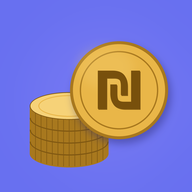
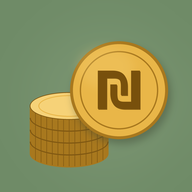
פלטה בהירה: לבן, ירוק עתיק וחום בהיר

diff --git a/src/styles.css b/src/styles.css
@@ -1,10 +1,10 @@
 :root {
-  /* מודרני ועדין: אפור-לבן, פריווינקל, מנטה, אלמוג, ענבר */
-  --bg: #f5f6fa; --surface: #ffffff; --track: #eceef5; --ink: #1e2233; --ink-2: #5b6178; --ink-3: #9aa0b4;
-  --line: #eceef4; --accent: #6870f0; --accent-ink: #fff; --accent-soft: rgba(104, 112, 240, .10);
-  --up: #1f9e74; --down: #e0607a; --warn: #e5a33b;
-  --t-stocks: #6870f0; --t-sp: #f2b35e; --t-solid: #a9b2c7;
-  --shadow: 0 1px 2px rgba(30, 34, 51, .04), 0 8px 24px rgba(30, 34, 51, .05);
+  /* בהיר: לבן, ירוק עתיק, חום בהיר */
+  --bg: #fbfaf7; --surface: #ffffff; --track: #f2eee7; --ink: #4b4036; --ink-2: #7d6f62; --ink-3: #b0a396;
+  --line: #efe9e0; --accent: #6f8b67; --accent-ink: #fff; --accent-soft: rgba(111, 139, 103, .12);
+  --up: #5f8a5a; --down: #c0785a; --warn: #c9a06a;
+  --t-stocks: #6f8b67; --t-sp: #c8a27a; --t-solid: #ddd0bf;
+  --shadow: 0 1px 2px rgba(75, 64, 54, .04), 0 8px 24px rgba(75, 64, 54, .05);
   --radius: 18px;
   --serif: 'Heebo', 'Segoe UI', Arial, sans-serif;
   --sans: 'Heebo', 'Segoe UI', Arial, sans-serif;
@@ -15,10 +15,10 @@
 }
 @media (prefers-color-scheme: dark) {
   :root {
-    --bg: #0f1117; --surface: #171a23; --track: #20232e; --ink: #eceef6; --ink-2: #a7acc0; --ink-3: #6f7489;
-    --line: #242836; --accent: #8f95ff; --accent-ink: #0f1117; --accent-soft: rgba(143, 149, 255, .14);
-    --up: #4cc79b; --down: #ff8a9e; --warn: #f5c27a;
-    --t-stocks: #8f95ff; --t-sp: #f5c27a; --t-solid: #6d768d;
+    --bg: #171512; --surface: #201d19; --track: #2a2621; --ink: #efe9e1; --ink-2: #c2b7aa; --ink-3: #8a7f73;
+    --line: #2f2a24; --accent: #a3bf98; --accent-ink: #171512; --accent-soft: rgba(163, 191, 152, .14);
+    --up: #a3bf98; --down: #e0a283; --warn: #d9b893;
+    --t-stocks: #a3bf98; --t-sp: #d9b893; --t-solid: #6e6457;
     --shadow: 0 1px 2px rgba(0, 0, 0, .3), 0 8px 24px rgba(0, 0, 0, .25);
     color-scheme: dark;
   }
@@ -395,7 +395,7 @@ tr.clickable:hover, tr.clickable:focus-visible { background: var(--accent-soft);
 body { font-size: 15.5px; }
 h1, h2, h3 { letter-spacing: -.01em; }
 h1, h2 { font-weight: 700; }
-.wordmark { font-weight: 800; letter-spacing: -.03em; background: linear-gradient(120deg, var(--accent), #a48bf5 60%, #f08fa6); -webkit-background-clip: text; background-clip: text; color: transparent; }
+.wordmark { font-weight: 800; letter-spacing: -.03em; background: linear-gradient(120deg, var(--accent), #9bb08f 55%, var(--t-sp)); -webkit-background-clip: text; background-clip: text; color: transparent; }
 .top { position: sticky; top: 0; z-index: 10; background: color-mix(in srgb, var(--surface) 82%, transparent); -webkit-backdrop-filter: saturate(1.4) blur(14px); backdrop-filter: saturate(1.4) blur(14px); border-bottom: 1px solid var(--line); }
 body::before { content: ""; position: fixed; inset: 0 0 auto; height: env(safe-area-inset-top, 0px); z-index: 11; background: color-mix(in srgb, var(--surface) 82%, transparent); -webkit-backdrop-filter: blur(14px); backdrop-filter: blur(14px); }
 .tabs button { border-radius: 10px; }
@@ -410,7 +410,7 @@ input, select { border-radius: 12px; border-color: var(--line); }
 .seg { background: var(--track); border: 0; padding: 4px; border-radius: 12px; }
 .seg button { border-radius: 9px; }
 .seg button.on { background: var(--surface); color: var(--ink); box-shadow: 0 1px 3px rgba(30, 34, 51, .12); }
-@media (prefers-color-scheme: dark) { .seg button.on { background: #2a2e3c; } }
+@media (prefers-color-scheme: dark) { .seg button.on { background: #36312a; } }
 
 /* כרטיסים */
 .panel, .cap, .filter-bar, .snap-form, .plan-card, .modal, .login-inner .code-form, .table-wrap,
@@ -435,7 +435,7 @@ input, select { border-radius: 12px; border-color: var(--line); }
 .headline { border-bottom: 0; padding-bottom: .5rem; }
 .big strong { font-weight: 700; letter-spacing: -.03em; }
 .facts dd, .stats dd, .month-summary dd { font-weight: 700; letter-spacing: -.01em; }
-.up-total { background: linear-gradient(135deg, color-mix(in srgb, var(--accent) 12%, var(--surface)), color-mix(in srgb, #f08fa6 12%, var(--surface))); border: 1px solid var(--line); border-radius: var(--radius); }
+.up-total { background: linear-gradient(135deg, color-mix(in srgb, var(--accent) 12%, var(--surface)), color-mix(in srgb, var(--t-sp) 16%, var(--surface))); border: 1px solid var(--line); border-radius: var(--radius); }
 .up-total strong { font-weight: 700; }
 .recurring { border-top: 1px solid var(--line); }
 
@@ -445,10 +445,10 @@ input, select { border-radius: 12px; border-color: var(--line); }
 .b-in { background: color-mix(in srgb, var(--up) 75%, white); } .b-out { background: color-mix(in srgb, var(--down) 75%, white); }
 .alloc-bar, .mc-bar, .cap-bar, .split-bar { background: var(--track); }
 .tag { background: var(--accent-soft); color: var(--accent); }
-.plan-btn.on { background: color-mix(in srgb, #a48bf5 18%, transparent); }
+.plan-btn.on { background: color-mix(in srgb, var(--t-sp) 22%, transparent); }
 .month-picker .btn { border-radius: 50%; }
 .modal { border: 0; }
-.modal-back { background: rgba(20, 22, 35, .35); -webkit-backdrop-filter: blur(4px); backdrop-filter: blur(4px); }
+.modal-back { background: rgba(60, 50, 40, .28); -webkit-backdrop-filter: blur(4px); backdrop-filter: blur(4px); }
 .mp-arrow { flex: none; width: 2.75rem; height: 2.75rem; display: grid; place-items: center; padding: 0; border-radius: 50%; border: 1px solid var(--line); background: var(--surface); color: var(--ink); cursor: pointer; box-shadow: var(--shadow); transition: background .12s ease, color .12s ease; }
 .mp-arrow:hover:not(:disabled) { background: var(--accent-soft); color: var(--accent); }
 .mp-arrow:disabled { visibility: hidden; }

diff --git a/src/expenseCalc.js b/src/expenseCalc.js
@@ -1,7 +1,7 @@
 // צבעי בסיס ואחריהם פסטלים — לקטגוריות ולגרפים
 export const PALETTE = [
-  '#7b83f5', '#5cc8a8', '#f4b06a', '#f08fa6', '#a88bf5', '#62bfe6',
-  '#c7d36b', '#f6a6cf', '#9aa7bd', '#7fd6b6', '#f7cf6a', '#c6b9fb',
+  '#7f9a76', '#c8a27a', '#a9bf9d', '#a98468', '#d9c4a6', '#8fa686',
+  '#e4d3bb', '#8a7a6c', '#c6d5b9', '#b89b82', '#b5c7a6', '#e9dccb',
 ];
 export const REST_COLOR = 'var(--t-solid)';
 
@@ -18,7 +18,7 @@ const mDate = (m) => { const [y, mm] = m.split('-'); return new Date(+y, +mm - 1
 export const monthShort = (m) => mDate(m).toLocaleDateString('he-IL', { month: 'short' }).replace('׳', '').replace('.', '');
 export const monthLong = (m) => mDate(m).toLocaleDateString('he-IL', { month: 'long', year: 'numeric' });
 export const monthName = (m) => mDate(m).toLocaleDateString('he-IL', { month: 'long' });
-export const INCOME_COLORS = ['#1f9e74', '#5cc8a8', '#7fd6b6', '#62bfe6', '#a9e3cf'];
+export const INCOME_COLORS = ['#5f8a5a', '#8fa686', '#a9bf9d', '#c6d5b9', '#c8a27a'];
 
 const sum = (a) => a.reduce((x, y) => x + y, 0);
 

diff --git a/index.html b/index.html
@@ -6,7 +6,7 @@
     <link rel="icon" type="image/png" sizes="32x32" href="/favicon-32.png" />
     <link rel="apple-touch-icon" href="/apple-touch-icon.png" />
     <link rel="manifest" href="/manifest.webmanifest" />
-    <meta name="theme-color" content="#6870f0" />
+    <meta name="theme-color" content="#6f8b67" />
     <meta name="apple-mobile-web-app-title" content="המאזן" />
     <link rel="preconnect" href="https://fonts.googleapis.com" />
     <link rel="preconnect" href="https://fonts.gstatic.com" crossorigin />
